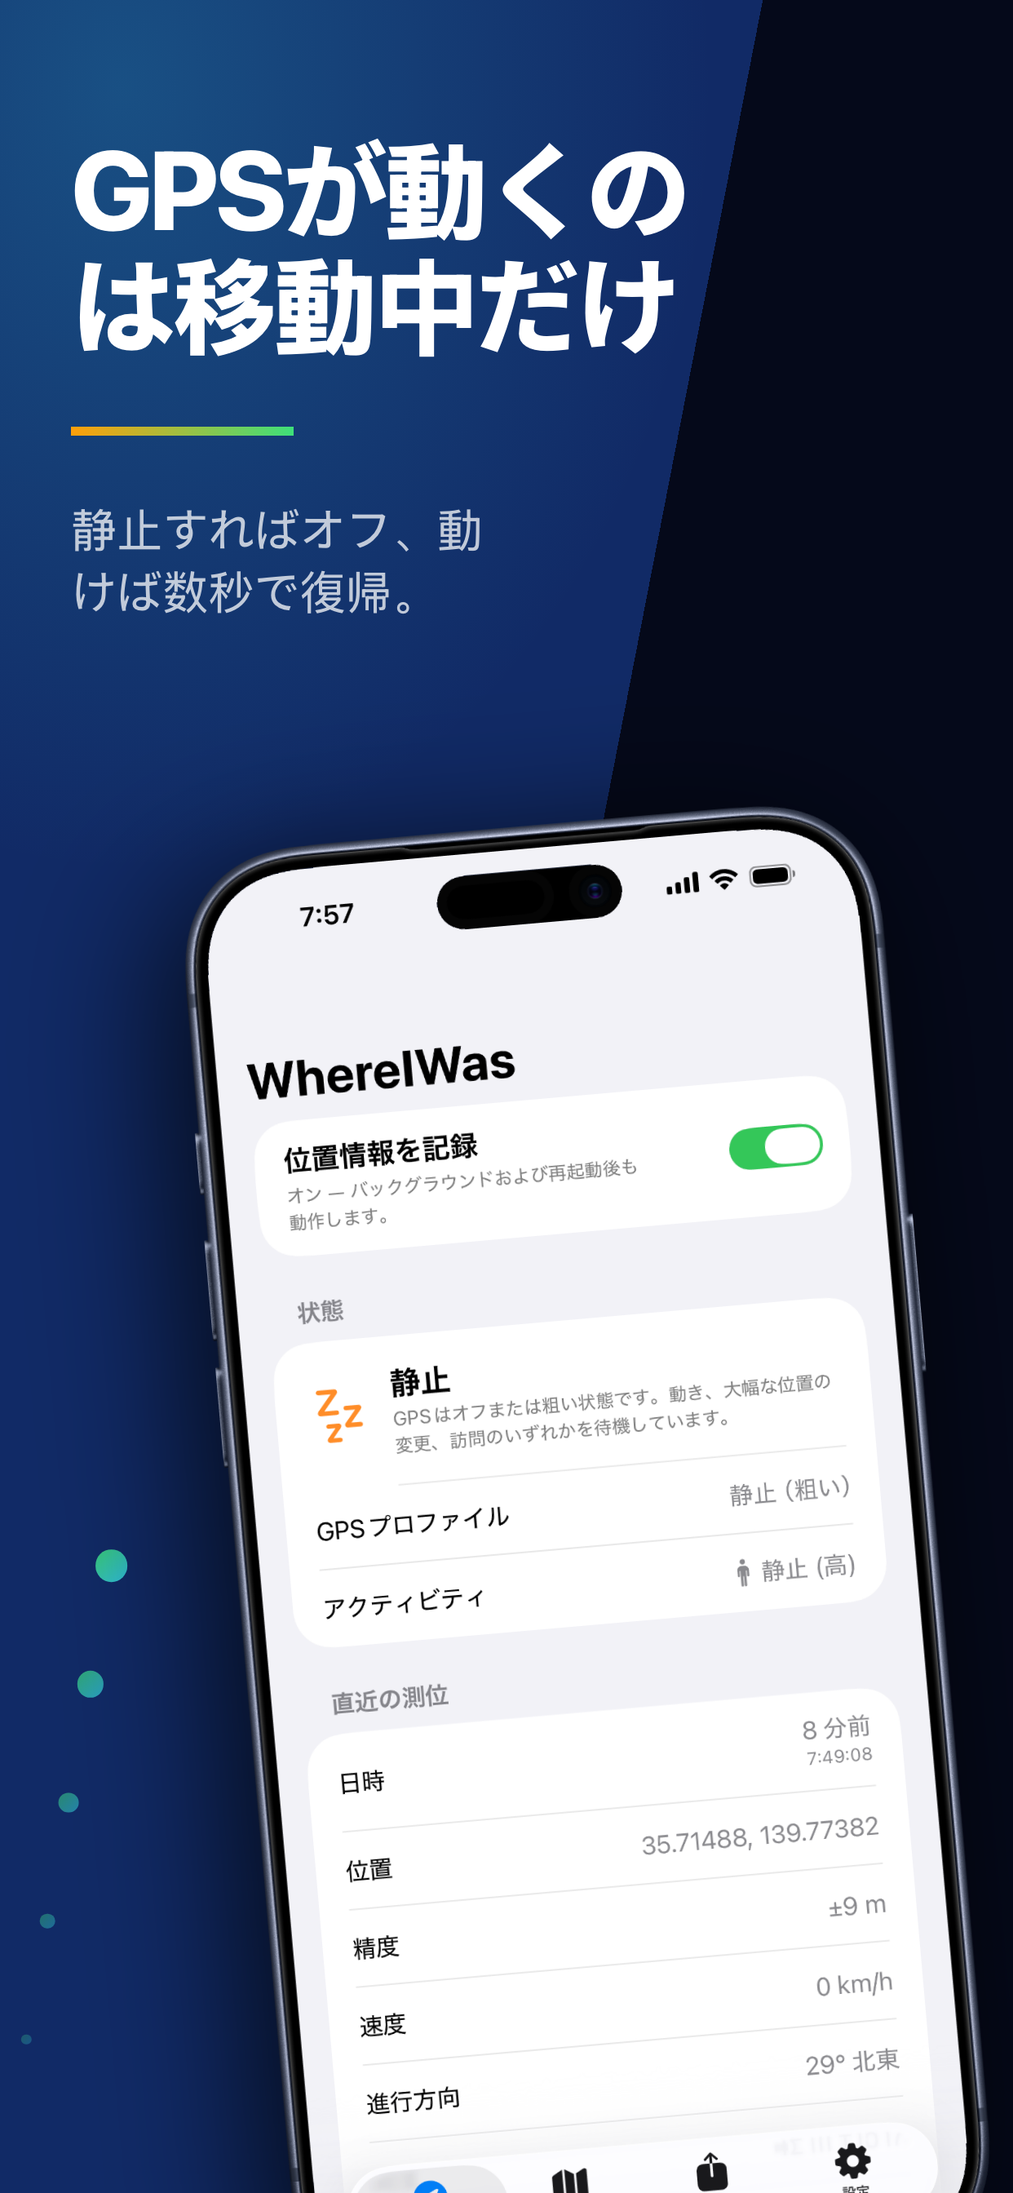
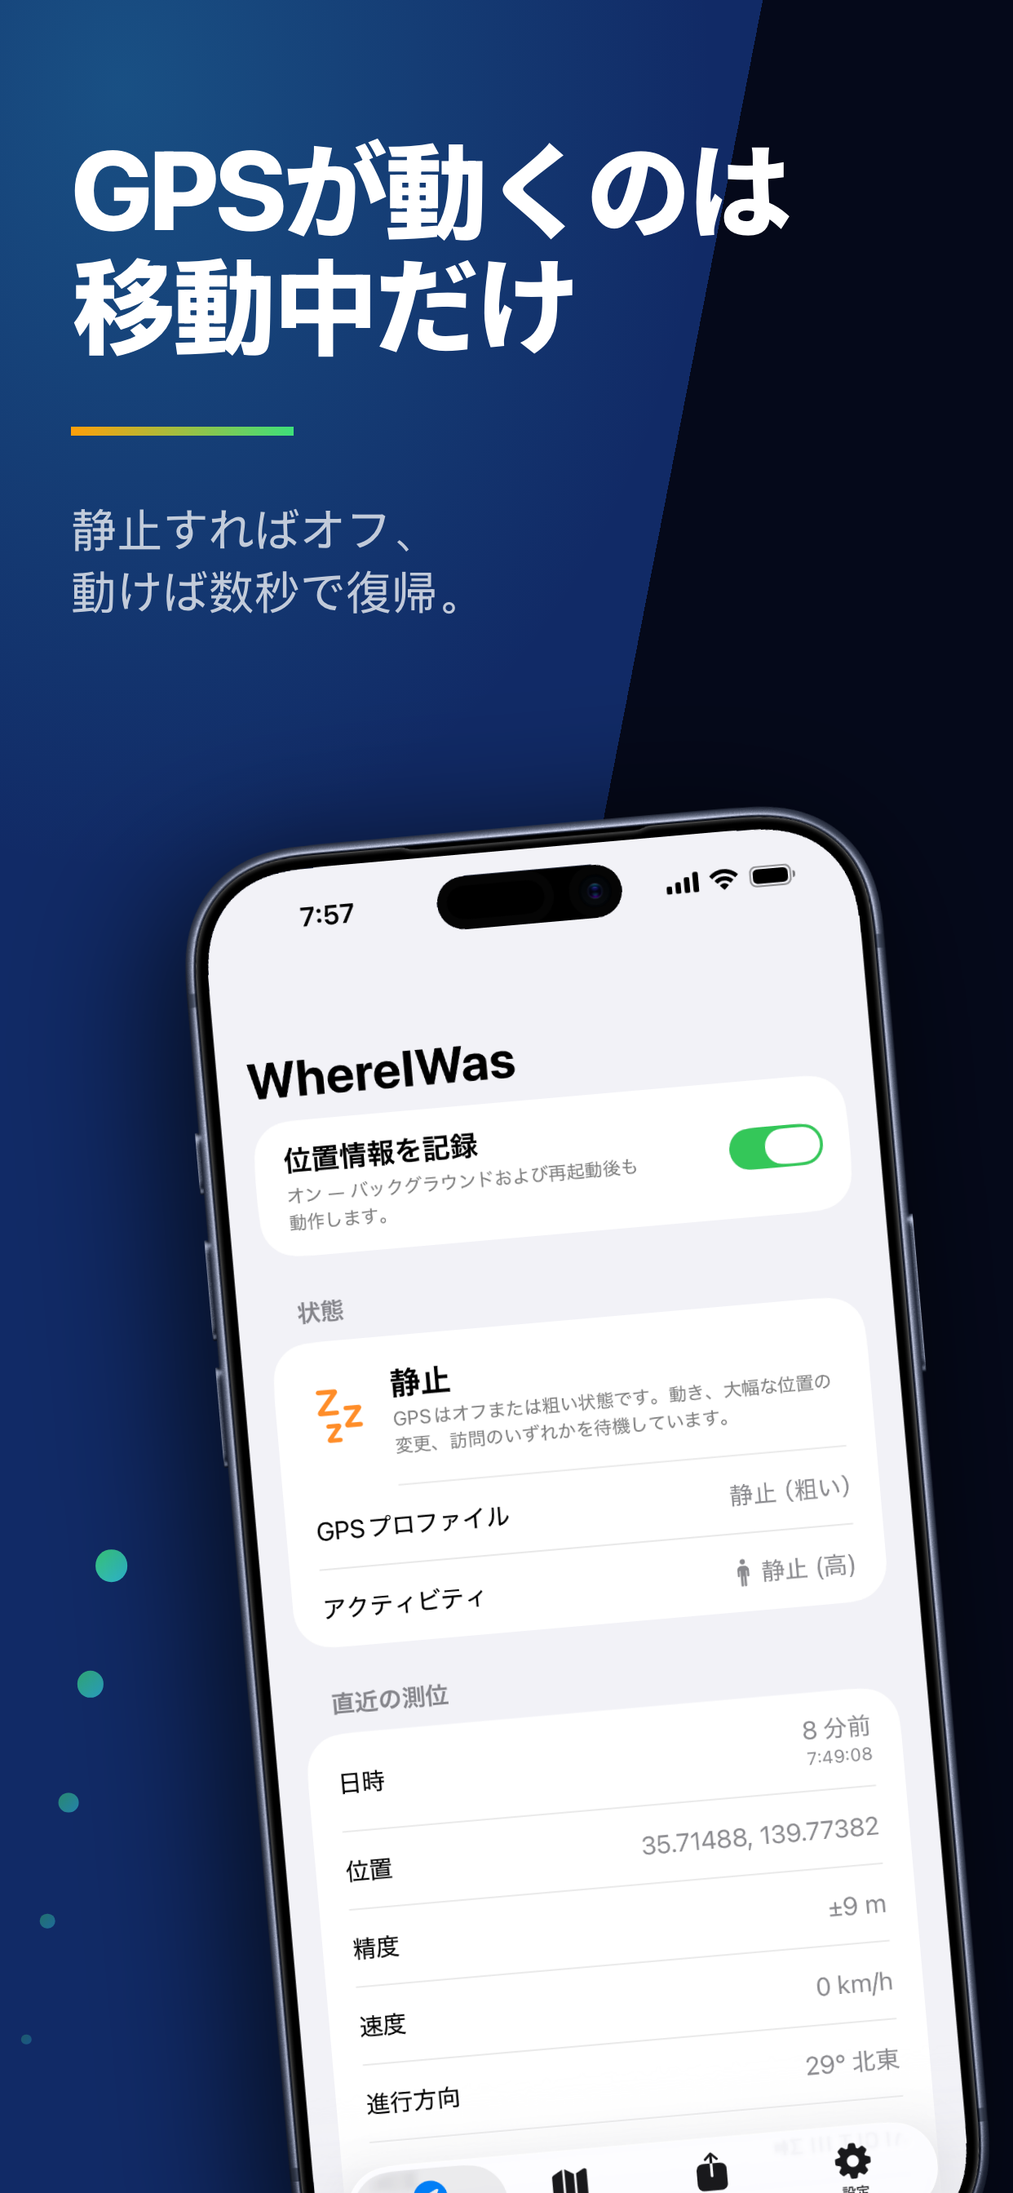
Break the Japanese headlines where a reader would
Chromium breaks Japanese between any two characters, so the map card read
一日の軌跡 / を、地図で — the particle torn off the noun it governs, which is
what "a full day's / track on the map" would look like broken after the
apostrophe. Every Japanese card had some version of it.

`word-break: auto-phrase` is the modern answer and this renderer does not
implement it: it silently falls back to breaking anywhere, and dropping
`text-wrap: balance` to let it through only split 地図 down the middle.

So the break points are named rather than inferred. The templates set
`word-break: keep-all`, which forbids every break Chromium would invent, and
each Japanese string carries a U+200B zero-width space at its phrase
boundaries — the only places a line may then end. Latin text is unaffected:
this moved three Japanese cards and not one byte of the other eight languages.

That makes a phrase wider than the copy box unbreakable, and the auto-fit
script only measured height, so 自分で決めたときだけ ran off the canvas and
lost its last character with nothing to report it. It now treats an overflowing
line as "over" too, which is a real guard for every language, not just this one.

The zero-width spaces are invisible in an editor, so screenshots/README.md
gains a section saying they exist, why, and how to see them.

Claude-Session: https://claude.ai/code/session_01QUSoU9MAxqvoSdPj9vo3Xh

diff --git a/screenshots/koubou/templates/01-hero-record.html b/screenshots/koubou/templates/01-hero-record.html
@@ -34,9 +34,19 @@
     position: absolute; top: 6%; left: 7%; right: 7%;
     z-index: 3; text-align: left;
   }
+  /* `word-break: keep-all` is here for Japanese. Chromium breaks CJK between any two
+     characters, so the map card's headline came out as 一日の軌跡 / を、地図で — the particle
+     torn off the noun it governs, which reads the way "a full day's / track on the map" would
+     if you broke it after "day's". `word-break: auto-phrase` is the modern answer and this
+     renderer does not implement it: it silently falls back to breaking anywhere, and dropping
+     `text-wrap: balance` to let it through only split 地図 down the middle. So the break points
+     are named instead — `keep-all` forbids every break Chromium would invent, and the Japanese
+     strings in koubou-strings.xcstrings carry a U+200B zero-width space at each phrase
+     boundary, which is then the only place a line can end. Latin text is unaffected: it still
+     breaks at its spaces. */
   h1 {
     font-size: 11.4vw; font-weight: 800; color: #FFFFFF;
-    line-height: 1.03; letter-spacing: -0.035em; text-wrap: balance;
+    line-height: 1.03; letter-spacing: -0.035em; text-wrap: balance; word-break: keep-all;
   }
   /* Brand motif: the growing dot trail from the app icon, used as the accent rule. */
   .trail { display: flex; align-items: center; gap: 1.5vw; margin: 3.2vh 0 3.0vh; }
@@ -48,7 +58,7 @@
   .trail i:nth-child(5) { width: 3.5vw;  height: 3.5vw;  opacity: 1; }
   p {
     font-size: 4.9vw; font-weight: 400; color: rgba(255,255,255,0.74);
-    line-height: 1.28; max-width: 90%; text-wrap: balance;
+    line-height: 1.28; max-width: 90%; text-wrap: balance; word-break: keep-all;
   }
 
   .device {
@@ -80,14 +90,25 @@
    verlassen" is six lines at the size English needs three. So the copy block declares the share
    of the canvas it owns (data-fit-budget, in % of canvas height) and this shrinks the headline,
    then the subtitle, in 0.15vw steps until the block fits it. English never moves: it is already
-   inside its budget at the starting size. */
+   inside its budget at the starting size.
+
+   Width counts as "over" too, and has to: Japanese sets `word-break: keep-all` and names its own
+   break points, so a phrase wider than the box has nowhere to break and silently ran off the
+   canvas edge instead of shrinking — 自分で決めたときだけ lost its last character that way. A
+   height-only test cannot see that, because the line that overflows is still one line. */
 (function () {
   var box = document.querySelector('[data-fit-budget]');
   if (!box) return;
   var budget = parseFloat(box.dataset.fitBudget) / 100 * window.innerHeight;
   var h1 = box.querySelector('h1'), p = box.querySelector('p');
   var size = parseFloat(box.dataset.fitStart), min = parseFloat(box.dataset.fitMin);
-  var over = function () { return box.getBoundingClientRect().height > budget; };
+  // `scrollWidth > clientWidth` catches a line that cannot break; the height test catches a
+  // block that has too many of them.
+  var over = function () {
+    return box.getBoundingClientRect().height > budget ||
+           h1.scrollWidth > h1.clientWidth ||
+           (p && p.scrollWidth > p.clientWidth);
+  };
   while (over() && size > min) { size -= 0.15; h1.style.fontSize = size.toFixed(2) + 'vw'; }
   if (p) {
     var sub = parseFloat(box.dataset.fitSub), subMin = parseFloat(box.dataset.fitSubMin);

diff --git a/screenshots/koubou/templates/04-audit-band.html b/screenshots/koubou/templates/04-audit-band.html
@@ -30,9 +30,19 @@
   }
 
   .copy { position: absolute; top: 7.5%; left: 7%; right: 7%; z-index: 3; }
+  /* `word-break: keep-all` is here for Japanese. Chromium breaks CJK between any two
+     characters, so the map card's headline came out as 一日の軌跡 / を、地図で — the particle
+     torn off the noun it governs, which reads the way "a full day's / track on the map" would
+     if you broke it after "day's". `word-break: auto-phrase` is the modern answer and this
+     renderer does not implement it: it silently falls back to breaking anywhere, and dropping
+     `text-wrap: balance` to let it through only split 地図 down the middle. So the break points
+     are named instead — `keep-all` forbids every break Chromium would invent, and the Japanese
+     strings in koubou-strings.xcstrings carry a U+200B zero-width space at each phrase
+     boundary, which is then the only place a line can end. Latin text is unaffected: it still
+     breaks at its spaces. */
   h1 {
     font-size: 11.6vw; font-weight: 800; color: #FFFFFF;
-    line-height: 1.03; letter-spacing: -0.035em; text-wrap: balance;
+    line-height: 1.03; letter-spacing: -0.035em; text-wrap: balance; word-break: keep-all;
   }
   /* Brand motif: the growing dot trail from the app icon. */
   .trail { display: flex; align-items: center; gap: 1.5vw; margin: 3.0vh 0 2.8vh; }
@@ -44,7 +54,7 @@
   .trail i:nth-child(5) { width: 3.5vw;  height: 3.5vw;  opacity: 1; }
   p {
     font-size: 5vw; font-weight: 400; color: rgba(255,255,255,0.74);
-    line-height: 1.28; max-width: 96%; text-wrap: balance;
+    line-height: 1.28; max-width: 96%; text-wrap: balance; word-break: keep-all;
   }
 
   .band {
@@ -79,14 +89,25 @@
    verlassen" is six lines at the size English needs three. So the copy block declares the share
    of the canvas it owns (data-fit-budget, in % of canvas height) and this shrinks the headline,
    then the subtitle, in 0.15vw steps until the block fits it. English never moves: it is already
-   inside its budget at the starting size. */
+   inside its budget at the starting size.
+
+   Width counts as "over" too, and has to: Japanese sets `word-break: keep-all` and names its own
+   break points, so a phrase wider than the box has nowhere to break and silently ran off the
+   canvas edge instead of shrinking — 自分で決めたときだけ lost its last character that way. A
+   height-only test cannot see that, because the line that overflows is still one line. */
 (function () {
   var box = document.querySelector('[data-fit-budget]');
   if (!box) return;
   var budget = parseFloat(box.dataset.fitBudget) / 100 * window.innerHeight;
   var h1 = box.querySelector('h1'), p = box.querySelector('p');
   var size = parseFloat(box.dataset.fitStart), min = parseFloat(box.dataset.fitMin);
-  var over = function () { return box.getBoundingClientRect().height > budget; };
+  // `scrollWidth > clientWidth` catches a line that cannot break; the height test catches a
+  // block that has too many of them.
+  var over = function () {
+    return box.getBoundingClientRect().height > budget ||
+           h1.scrollWidth > h1.clientWidth ||
+           (p && p.scrollWidth > p.clientWidth);
+  };
   while (over() && size > min) { size -= 0.15; h1.style.fontSize = size.toFixed(2) + 'vw'; }
   if (p) {
     var sub = parseFloat(box.dataset.fitSub), subMin = parseFloat(box.dataset.fitSubMin);

diff --git a/screenshots/koubou/templates/02-split-motion.html b/screenshots/koubou/templates/02-split-motion.html
@@ -24,9 +24,19 @@
   }
 
   .copy { position: absolute; top: 6%; left: 7%; right: 7%; z-index: 3; }
+  /* `word-break: keep-all` is here for Japanese. Chromium breaks CJK between any two
+     characters, so the map card's headline came out as 一日の軌跡 / を、地図で — the particle
+     torn off the noun it governs, which reads the way "a full day's / track on the map" would
+     if you broke it after "day's". `word-break: auto-phrase` is the modern answer and this
+     renderer does not implement it: it silently falls back to breaking anywhere, and dropping
+     `text-wrap: balance` to let it through only split 地図 down the middle. So the break points
+     are named instead — `keep-all` forbids every break Chromium would invent, and the Japanese
+     strings in koubou-strings.xcstrings carry a U+200B zero-width space at each phrase
+     boundary, which is then the only place a line can end. Latin text is unaffected: it still
+     breaks at its spaces. */
   h1 {
     font-size: 11vw; font-weight: 800; color: #FFFFFF;
-    line-height: 1.03; letter-spacing: -0.035em; text-wrap: balance;
+    line-height: 1.03; letter-spacing: -0.035em; text-wrap: balance; word-break: keep-all;
   }
   .bar {
     width: 22vw; height: 11px; margin: 3.0vh 0 2.8vh;
@@ -34,7 +44,7 @@
   }
   p {
     font-size: 4.8vw; font-weight: 400; color: rgba(255,255,255,0.74);
-    line-height: 1.28; max-width: 80%; text-wrap: balance;
+    line-height: 1.28; max-width: 80%; text-wrap: balance; word-break: keep-all;
   }
 
   /* Tilted and pushed right, but every value column stays on canvas: the whole point of this
@@ -80,14 +90,25 @@
    verlassen" is six lines at the size English needs three. So the copy block declares the share
    of the canvas it owns (data-fit-budget, in % of canvas height) and this shrinks the headline,
    then the subtitle, in 0.15vw steps until the block fits it. English never moves: it is already
-   inside its budget at the starting size. */
+   inside its budget at the starting size.
+
+   Width counts as "over" too, and has to: Japanese sets `word-break: keep-all` and names its own
+   break points, so a phrase wider than the box has nowhere to break and silently ran off the
+   canvas edge instead of shrinking — 自分で決めたときだけ lost its last character that way. A
+   height-only test cannot see that, because the line that overflows is still one line. */
 (function () {
   var box = document.querySelector('[data-fit-budget]');
   if (!box) return;
   var budget = parseFloat(box.dataset.fitBudget) / 100 * window.innerHeight;
   var h1 = box.querySelector('h1'), p = box.querySelector('p');
   var size = parseFloat(box.dataset.fitStart), min = parseFloat(box.dataset.fitMin);
-  var over = function () { return box.getBoundingClientRect().height > budget; };
+  // `scrollWidth > clientWidth` catches a line that cannot break; the height test catches a
+  // block that has too many of them.
+  var over = function () {
+    return box.getBoundingClientRect().height > budget ||
+           h1.scrollWidth > h1.clientWidth ||
+           (p && p.scrollWidth > p.clientWidth);
+  };
   while (over() && size > min) { size -= 0.15; h1.style.fontSize = size.toFixed(2) + 'vw'; }
   if (p) {
     var sub = parseFloat(box.dataset.fitSub), subMin = parseFloat(box.dataset.fitSubMin);

diff --git a/screenshots/koubou/templates/03-map-slab.html b/screenshots/koubou/templates/03-map-slab.html
@@ -47,13 +47,23 @@
     border-image: linear-gradient(90deg, rgba(53,214,238,0) 0%, #35D6EE 18%, #3EE07A 78%, rgba(62,224,122,0) 100%) 1;
     box-shadow: 0 -30px 60px rgba(5,9,26,0.85);
   }
+  /* `word-break: keep-all` is here for Japanese. Chromium breaks CJK between any two
+     characters, so the map card's headline came out as 一日の軌跡 / を、地図で — the particle
+     torn off the noun it governs, which reads the way "a full day's / track on the map" would
+     if you broke it after "day's". `word-break: auto-phrase` is the modern answer and this
+     renderer does not implement it: it silently falls back to breaking anywhere, and dropping
+     `text-wrap: balance` to let it through only split 地図 down the middle. So the break points
+     are named instead — `keep-all` forbids every break Chromium would invent, and the Japanese
+     strings in koubou-strings.xcstrings carry a U+200B zero-width space at each phrase
+     boundary, which is then the only place a line can end. Latin text is unaffected: it still
+     breaks at its spaces. */
   h1 {
     font-size: 11.2vw; font-weight: 800; color: #FFFFFF;
-    line-height: 1.03; letter-spacing: -0.035em; text-wrap: balance;
+    line-height: 1.03; letter-spacing: -0.035em; text-wrap: balance; word-break: keep-all;
   }
   p {
     font-size: 4.8vw; font-weight: 400; color: rgba(255,255,255,0.72);
-    line-height: 1.28; margin-top: 2.6vh; max-width: 94%; text-wrap: balance;
+    line-height: 1.28; margin-top: 2.6vh; max-width: 94%; text-wrap: balance; word-break: keep-all;
   }
 </style>
 </head>
@@ -76,14 +86,25 @@
    verlassen" is six lines at the size English needs three. So the copy block declares the share
    of the canvas it owns (data-fit-budget, in % of canvas height) and this shrinks the headline,
    then the subtitle, in 0.15vw steps until the block fits it. English never moves: it is already
-   inside its budget at the starting size. */
+   inside its budget at the starting size.
+
+   Width counts as "over" too, and has to: Japanese sets `word-break: keep-all` and names its own
+   break points, so a phrase wider than the box has nowhere to break and silently ran off the
+   canvas edge instead of shrinking — 自分で決めたときだけ lost its last character that way. A
+   height-only test cannot see that, because the line that overflows is still one line. */
 (function () {
   var box = document.querySelector('[data-fit-budget]');
   if (!box) return;
   var budget = parseFloat(box.dataset.fitBudget) / 100 * window.innerHeight;
   var h1 = box.querySelector('h1'), p = box.querySelector('p');
   var size = parseFloat(box.dataset.fitStart), min = parseFloat(box.dataset.fitMin);
-  var over = function () { return box.getBoundingClientRect().height > budget; };
+  // `scrollWidth > clientWidth` catches a line that cannot break; the height test catches a
+  // block that has too many of them.
+  var over = function () {
+    return box.getBoundingClientRect().height > budget ||
+           h1.scrollWidth > h1.clientWidth ||
+           (p && p.scrollWidth > p.clientWidth);
+  };
   while (over() && size > min) { size -= 0.15; h1.style.fontSize = size.toFixed(2) + 'vw'; }
   if (p) {
     var sub = parseFloat(box.dataset.fitSub), subMin = parseFloat(box.dataset.fitSubMin);

diff --git a/screenshots/koubou/templates/05-export-card.html b/screenshots/koubou/templates/05-export-card.html
@@ -48,13 +48,23 @@
   }
 
   .copy { position: absolute; top: 7%; left: 7%; right: 7%; z-index: 3; }
+  /* `word-break: keep-all` is here for Japanese. Chromium breaks CJK between any two
+     characters, so the map card's headline came out as 一日の軌跡 / を、地図で — the particle
+     torn off the noun it governs, which reads the way "a full day's / track on the map" would
+     if you broke it after "day's". `word-break: auto-phrase` is the modern answer and this
+     renderer does not implement it: it silently falls back to breaking anywhere, and dropping
+     `text-wrap: balance` to let it through only split 地図 down the middle. So the break points
+     are named instead — `keep-all` forbids every break Chromium would invent, and the Japanese
+     strings in koubou-strings.xcstrings carry a U+200B zero-width space at each phrase
+     boundary, which is then the only place a line can end. Latin text is unaffected: it still
+     breaks at its spaces. */
   h1 {
     font-size: 11.6vw; font-weight: 800; color: #FFFFFF;
-    line-height: 1.02; letter-spacing: -0.038em; text-wrap: balance;
+    line-height: 1.02; letter-spacing: -0.038em; text-wrap: balance; word-break: keep-all;
   }
   p {
     font-size: 4.8vw; font-weight: 400; color: rgba(255,255,255,0.74);
-    line-height: 1.28; margin-top: 2.4vh; max-width: 96%; text-wrap: balance;
+    line-height: 1.28; margin-top: 2.4vh; max-width: 96%; text-wrap: balance; word-break: keep-all;
   }
 
   .card {
@@ -88,14 +98,25 @@
    verlassen" is six lines at the size English needs three. So the copy block declares the share
    of the canvas it owns (data-fit-budget, in % of canvas height) and this shrinks the headline,
    then the subtitle, in 0.15vw steps until the block fits it. English never moves: it is already
-   inside its budget at the starting size. */
+   inside its budget at the starting size.
+
+   Width counts as "over" too, and has to: Japanese sets `word-break: keep-all` and names its own
+   break points, so a phrase wider than the box has nowhere to break and silently ran off the
+   canvas edge instead of shrinking — 自分で決めたときだけ lost its last character that way. A
+   height-only test cannot see that, because the line that overflows is still one line. */
 (function () {
   var box = document.querySelector('[data-fit-budget]');
   if (!box) return;
   var budget = parseFloat(box.dataset.fitBudget) / 100 * window.innerHeight;
   var h1 = box.querySelector('h1'), p = box.querySelector('p');
   var size = parseFloat(box.dataset.fitStart), min = parseFloat(box.dataset.fitMin);
-  var over = function () { return box.getBoundingClientRect().height > budget; };
+  // `scrollWidth > clientWidth` catches a line that cannot break; the height test catches a
+  // block that has too many of them.
+  var over = function () {
+    return box.getBoundingClientRect().height > budget ||
+           h1.scrollWidth > h1.clientWidth ||
+           (p && p.scrollWidth > p.clientWidth);
+  };
   while (over() && size > min) { size -= 0.15; h1.style.fontSize = size.toFixed(2) + 'vw'; }
   if (p) {
     var sub = parseFloat(box.dataset.fitSub), subMin = parseFloat(box.dataset.fitSubMin);

diff --git a/screenshots/README.md b/screenshots/README.md
@@ -153,6 +153,26 @@ size), the footer, and all six sessions across three days with their sample coun
 durations — which is what the screen actually sells; the format picker above it is a settings row
 and stays out of frame.
 
+### Japanese line breaks — an invisible convention
+
+Chromium breaks Japanese between any two characters, which tore particles off the nouns they
+govern: the map headline came out `一日の軌跡 / を、地図で`, the equivalent of breaking "a full
+day's / track" after the apostrophe. `word-break: auto-phrase` is the modern fix and this
+renderer does not implement it — it falls back to breaking anywhere, and removing
+`text-wrap: balance` to let it through only split 地図 down the middle.
+
+So the break points are named instead. The templates set `word-break: keep-all`, which forbids
+every break Chromium would invent, and each Japanese string in `koubou-strings.xcstrings` carries
+a **U+200B zero-width space** at each phrase boundary — the only places a line may then end.
+Latin text is untouched: it still breaks at its spaces, and re-rendering after this change moved
+three Japanese cards and not one byte of the other eight languages.
+
+Two things follow. **Editing a Japanese string means re-placing its U+200B**, and they are
+invisible in every editor — `grep -c $'\u200b'` on the catalog is the way to see them. And a
+phrase wider than the copy box now has nowhere to break, so the auto-fit script treats
+`scrollWidth > clientWidth` as "over" alongside its height test; without that, card 5's
+`自分で決めたときだけ` ran off the canvas edge and lost its last character with no warning.
+
 One template set serves nine languages, so each copy block declares the share of canvas height it
 owns (`data-fit-budget`) and a short inline script steps the headline down until it fits, then the
 subtitle. English never moves. The floor is 9vw, under the 10vw the Koubou skill asks for on this
